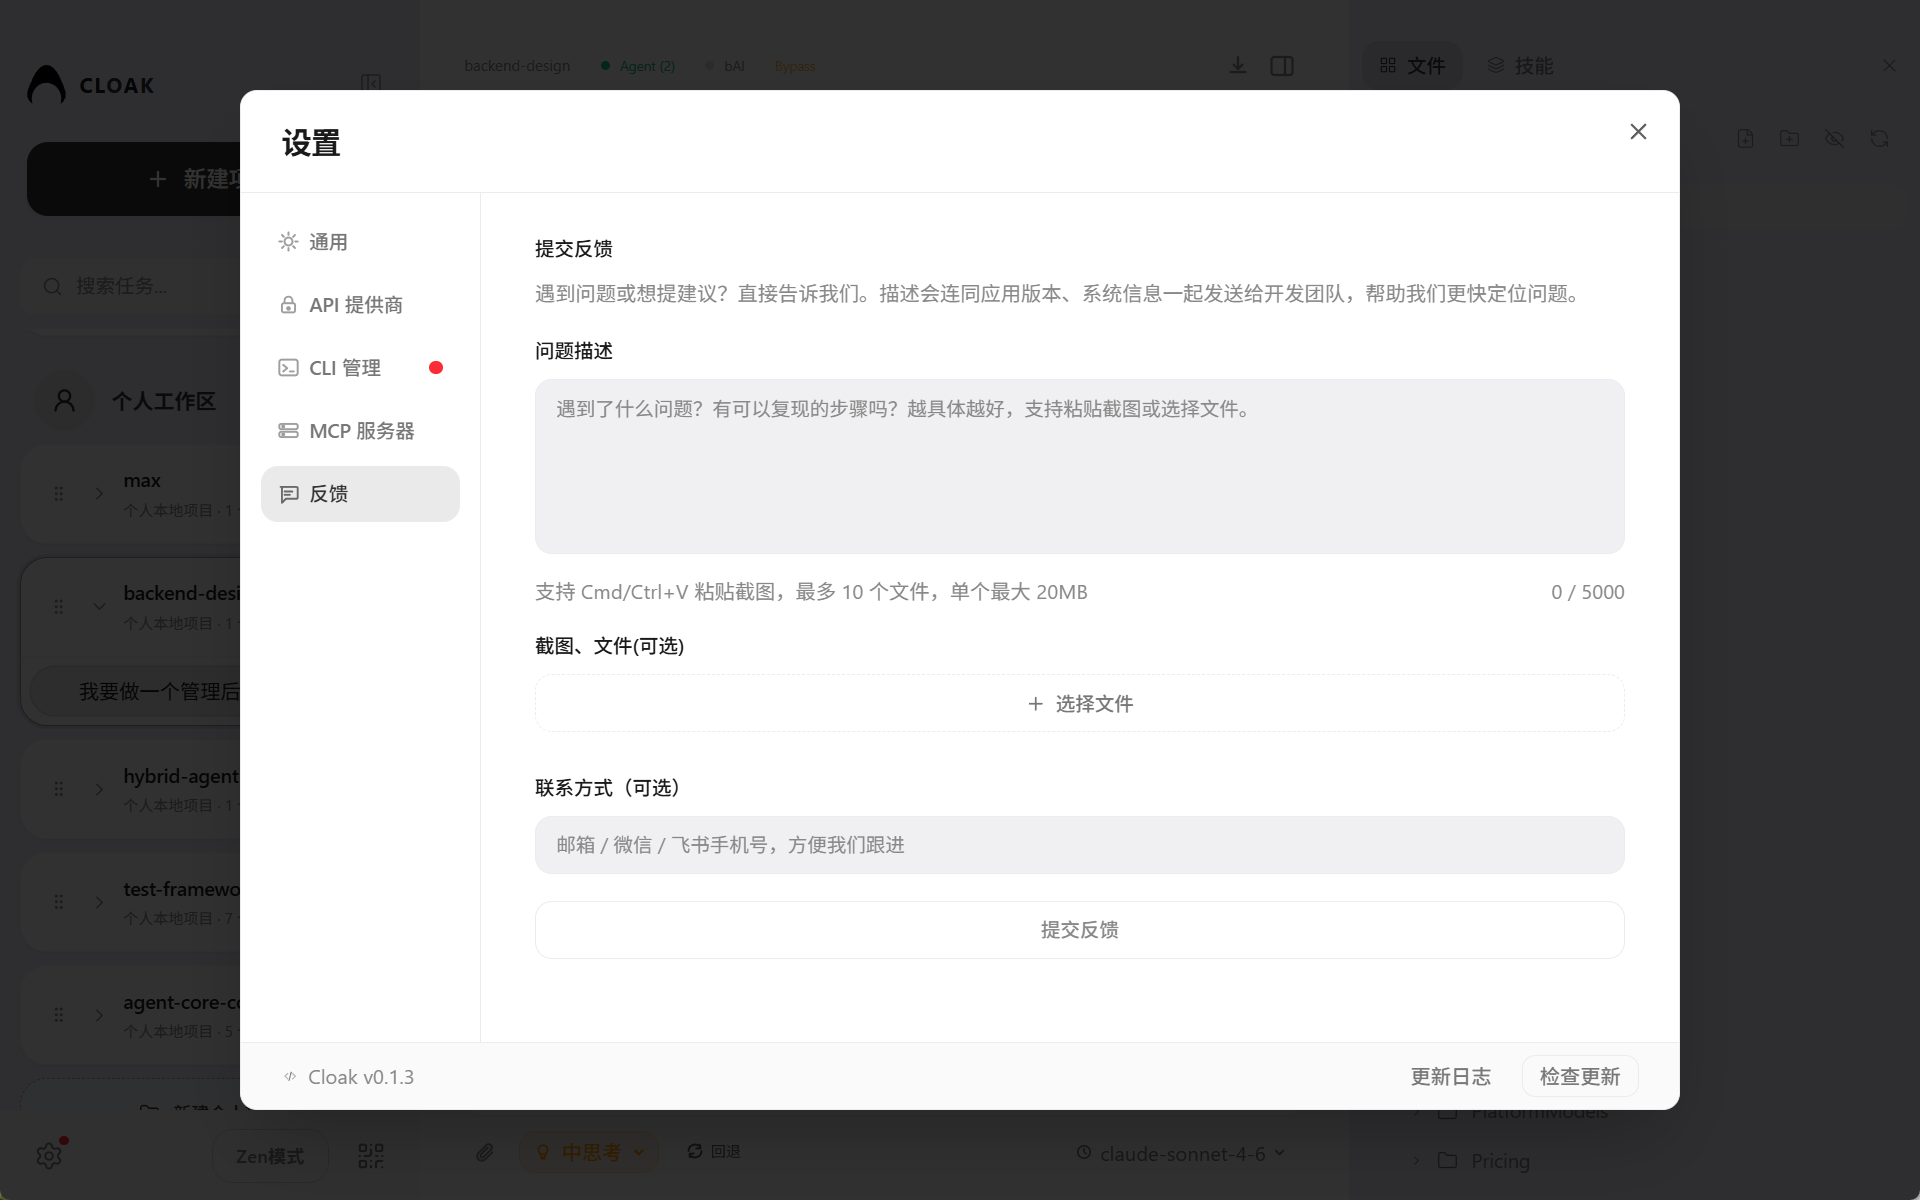
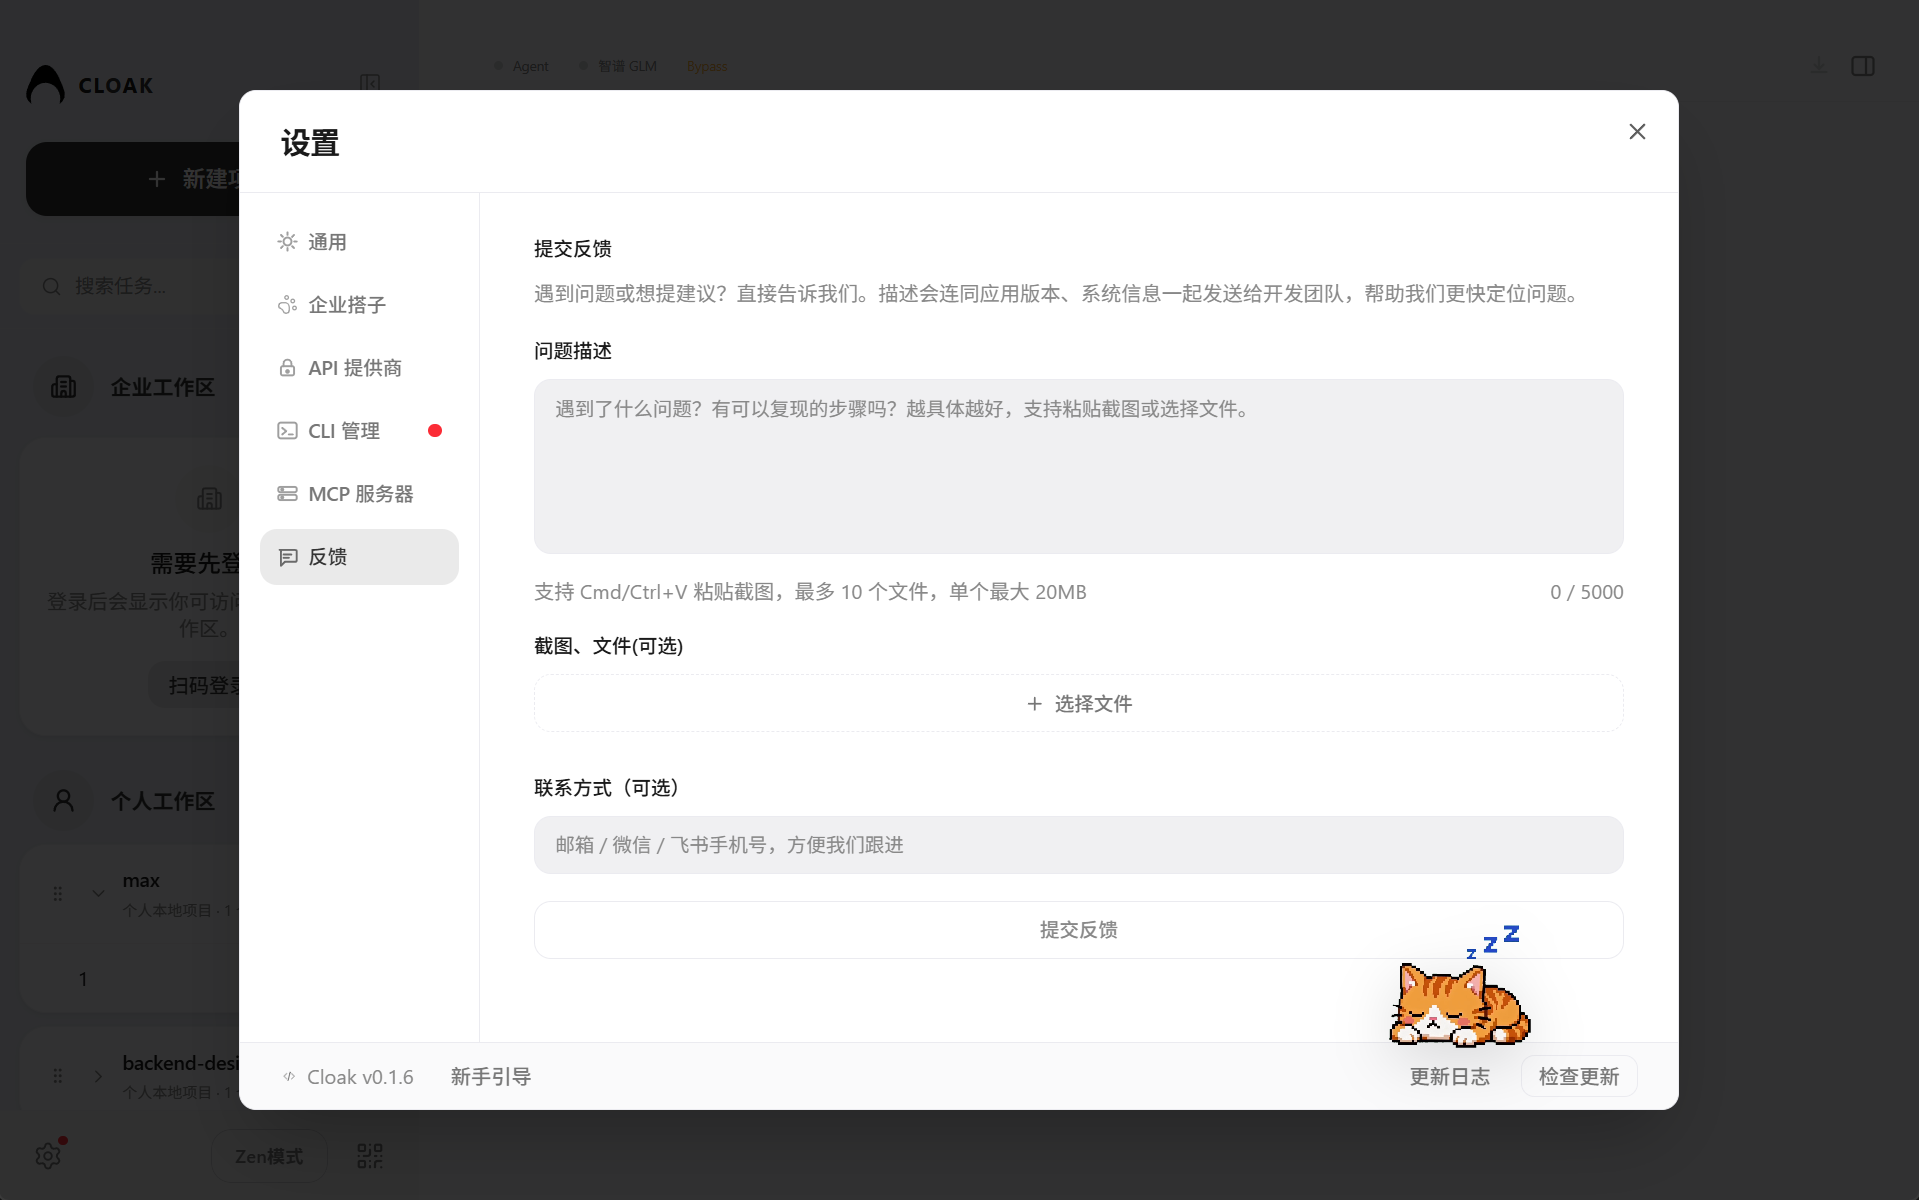
docs: expand readme faq and contact info

diff --git a/README.md b/README.md
@@ -23,6 +23,7 @@
 43 CLOAK 让企业的 AI 投入对管理者**管得住、用得对、留得下**，让 AI 对员工越用越懂业务、越懂岗位、越懂这家公司，适用于各行业、各规模企业的全员 AI 协作场景。
 
 > 当前发布的桌面客户端已支持个人空间与企业空间，既可以作为个人 AI 工作入口，也可以接入企业团队协作场景。
+> 企业版功能需要联系 CLOAK 团队配置并开通组织功能后才可使用；不开启企业功能，不影响个人版功能的正常使用。
 > 本项目早期工作参考借鉴了 [TOKENICODE](https://github.com/yiliqi78/TOKENICODE) 进行迭代开发，在此致谢原作者（@小七姐，@Tiny）。
 > Cloak 为闭源软件，仅提供安装包。
 
@@ -60,6 +61,10 @@
 ---
 
 ## 界面预览
+
+**欢迎界面**
+
+![欢迎界面](docs/screenshots/welcome.png)
 
 **主界面**
 
@@ -173,27 +178,213 @@ Cloak 内置了以下服务商，选好后点对应链接去注册获取 Key：
 
 ---
 
-## 遇到问题？
+## 常见问题 Q&A
 
-用着有什么不对劲，或者有想要的新功能，可以在应用内直接反馈：
+### 企业版与账号
 
-打开左下角的**设置**，进入**反馈**页面，填写问题描述。你可以粘贴截图或选择文件，也可以留下邮箱、微信或飞书手机号，方便我们后续跟进。
+**Q：我只想自己用，需要开通企业版吗？**
+
+A：不需要。个人版可以正常使用。企业工作区、组织成员、企业云端文件等功能，需要联系 CLOAK 团队配置开通后才会出现。
+
+**Q：企业版开通后，我需要自己配置很多东西吗？**
+
+A：通常不用。企业功能开通后，组织、成员、工作区和部分能力会由 CLOAK 团队或组织管理员配置。你只需要用对应账号登录。
+
+**Q：左侧看不到企业工作区，是不是坏了？**
+
+A：通常不是。请先确认你已经用飞书账号登录，并且你的组织已经开通企业功能、账号已被加入对应工作区。
+
+**Q：飞书二维码过期或扫不上怎么办？**
+
+A：关闭登录窗口重新打开，或点击刷新二维码；手机端确认使用的是飞书，并且网络正常。
+
+**Q：换电脑后还能继续用吗？**
+
+A：个人服务商 Key 需要在新电脑上重新配置；企业功能需要用同一个飞书账号登录，并且该账号仍在组织工作区内。
+
+### 下载、安装与设备
+
+**Q：我不知道该下载哪个安装包。**
+
+A：Windows 选 Windows；Mac 先点左上角苹果图标 → 关于本机，看「芯片」一栏，M1 / M2 / M3 / M4 选 M 系列，Intel 就选 Intel。
+
+**Q：Windows 打开后提示缺少 Git 或运行环境怎么办？**
+
+A：先安装 Git for Windows，安装时一路默认即可。如果应用里提示安装基础组件，点安装并等待完成；失败时可以重试，或用管理员身份打开应用。
+
+**Q：下载、安装或更新一直失败怎么办？**
+
+A：先确认网络正常、磁盘空间足够，并暂时关闭会拦截安装包的安全软件。Windows 可以尝试右键安装包，选择“以管理员身份运行”。
+
+**Q：电脑太旧会影响使用吗？**
+
+A：会。内存太小、磁盘空间不足、系统版本太旧，都可能导致安装慢、打开慢或更新失败。建议关闭不用的软件，并保留足够磁盘空间。
+
+**Q：macOS 提示没有权限访问文件怎么办？**
+
+A：到「系统设置 → 隐私与安全性 → 完全磁盘访问权限」里给 Cloak 授权，然后重启应用再试。
+
+### 对话与文件
+
+**Q：点“新建对话”后，我应该输入什么？**
+
+A：直接像和同事说话一样描述需求即可，比如“帮我总结这个文件”“把这段话改得正式一点”“帮我列一个执行计划”。
+
+**Q：同一个问题可以开多个对话吗？会不会互相影响？**
+
+A：可以。多个对话是分开的，适合把不同任务拆开处理。切换对话不会删除之前内容，但建议重要结果及时复制保存。
+
+**Q：为什么有时 AI 回复很慢？**
+
+A：可能是网络慢、模型服务忙、文件较大、问题较长，或当前模型本身响应较慢。可以先等一会儿，或换一个更快的模型再试。
+
+**Q：输入 `/` 后出现很多命令，我一定要会用吗？**
+
+A：不用。普通用户直接打字提问就可以。`/` 命令是给进阶用户快速操作用的，不会影响日常使用。
+
+**Q：为什么提示“权限请求”或让我确认操作？**
+
+A：这是为了避免 AI 自动改动文件或执行敏感操作。看清楚提示内容后再点允许；如果不确定，就点拒绝。
+
+**Q：回退功能是做什么的？**
+
+A：如果你发现对话走偏了，可以用回退回到前面的某一步。涉及文件改动时，请先确认自己是否真的要恢复旧状态。
+
+**Q：怎么把一段对话保存下来？**
+
+A：在对话界面里使用导出功能，可以把任务导出成 Markdown 或 JSON。普通用户一般选 Markdown 更方便查看。
+
+**Q：新建对话、个人工作区、企业工作区有什么区别？**
+
+A：新建对话只是开始一个新话题；个人工作区主要放你自己的本地项目和对话；企业工作区需要组织开通后使用，里面通常是团队共享资料和成员协作内容。
+
+**Q：我把文件拖进去了，AI 没有按文件内容回答怎么办？**
+
+A：先确认文件已经出现在输入框或对话里，再发送问题。文件太大、格式特殊、没有读取权限，或者文件还在下载中，都可能导致 AI 没有看到完整内容。
+
+**Q：能不能一次拖很多文件？**
+
+A：可以尝试，但不建议一开始就拖太多。文件越多，AI 需要处理的内容越多，速度会变慢，也更容易超出模型能处理的范围。
+
+**Q：文件面板里看不到我的文件怎么办？**
+
+A：检查你是不是选错了项目文件夹；如果文件夹被移动、改名或删除，需要重新选择。企业云端文件则需要先登录并进入对应企业工作区。
+
+### 企业工作区与云端文件
+
+**Q：企业文件能看到但打不开、不能上传，是为什么？**
+
+A：这通常和工作区权限有关。有些账号只能浏览目录，不能读取内容或写入文件。需要联系组织管理员或 CLOAK 团队调整权限。
+
+**Q：企业云端文件和我电脑里的文件有什么区别？**
+
+A：企业云端文件属于组织工作区，通常是团队共享资料；你电脑里的文件只在本机。云端文件的查看、下载、上传会受企业权限控制。
+
+**Q：云端文件显示“同步”“缓存”“冲突”是什么意思？**
+
+A：可以简单理解为文件正在和本地副本对齐。如果看到冲突，先不要反复上传或删除，建议刷新后再试，或联系管理员确认哪个版本是正确的。
+
+**Q：企业工作区里的成员头像有什么用？**
+
+A：它帮助你确认这个工作区有哪些成员参与。是否能看到文件、读取内容或写入，仍然取决于账号权限。
+
+### 模型、API Key 与网络
+
+**Q：我没有 API Key，能不能用？**
+
+A：企业用户通常由组织统一配置；个人用户需要在设置里填写自己的服务商 Key。如果不知道 Key 是什么，可以先联系服务商或你的组织管理员。
+
+**Q：填了 Key 还是不能对话怎么办？**
+
+A：检查三件事：Key 有没有复制完整；设置里是否选中了对应服务商；网络是否能访问该服务商。也可以换一个模型再试。
+
+**Q：我不小心切到别的模型或服务商了怎么办？**
+
+A：打开左下角设置，进入服务商或通用设置，重新选择你要使用的服务商和默认模型即可。
+
+**Q：API 提供商里的“测试连接”失败，就一定不能用吗？**
+
+A：不一定。有些服务商会限制测试请求来源。你可以确认 Key 和模型名没填错后，直接新建一个简单对话试试。
+
+**Q：API Key 明明没错，为什么还是失败？**
+
+A：除了 Key 本身，还可能是余额不足、套餐未开通、服务商限制地区、模型名称变化、请求太频繁，或服务商临时故障。可以去对应服务商后台检查状态。
+
+**Q：为什么提示额度不足、模型不可用或请求失败？**
+
+A：这通常来自模型服务商，不一定是 Cloak 的问题。请检查服务商账户余额、可用模型、账单状态和网络连接。
+
+**Q：“思考强度”是不是越高越好？**
+
+A：不一定。思考越深通常越慢、消耗也可能更高。普通总结、改写、问答用低或中就够；复杂分析再调高。
+
+**Q：公司网络、校园网或代理会影响使用吗？**
+
+A：会。部分网络会限制访问模型服务、GitHub、下载地址或二维码登录服务。可以换一个网络，或让网管放行相关访问。
+
+**Q：开了 VPN、代理或安全软件后不能用了怎么办？**
+
+A：先临时关闭代理或安全软件试一次，判断是不是它们拦截了连接或文件访问。公司电脑如果不能关闭，请联系 IT 管理员处理。
+
+### 设置、更新与个性化
+
+**Q：桌面宠物、主题、头像这些设置会影响 AI 能力吗？**
+
+A：不会。这些只是界面和使用体验设置，不会改变 AI 的回答能力。
+
+**Q：字体太小、界面太亮或太暗怎么办？**
+
+A：打开左下角设置，在通用里调整字体大小、外观模式和主题颜色。
+
+**Q：为什么设置在另一台电脑上没有同步？**
+
+A：个人本地配置通常需要在新电脑重新设置；企业账号相关配置是否同步，取决于组织是否开通和配置了对应能力。
+
+**Q：CLI 管理是什么？普通用户要管吗？**
+
+A：它是 Cloak 正常运行需要的基础组件管理入口。普通用户通常只需要在提示安装、更新或修复时按按钮操作。
+
+**Q：MCP 服务器是什么？需要配置吗？**
+
+A：这是给进阶用户连接外部工具用的。普通聊天、读文件、企业工作区使用都不要求你配置 MCP。
+
+**Q：更新后界面没变化怎么办？**
+
+A：先完全退出 Cloak，再重新打开。如果仍然没有变化，到设置页检查更新，或重新下载安装包覆盖安装。
+
+### 反馈与排查
+
+**Q：遇到问题时，我应该怎么反馈才有用？**
+
+A：尽量写清楚你点了哪里、想做什么、出现了什么提示，并附上截图。设置里的反馈页支持粘贴截图和选择文件。
+
+**Q：反馈里要不要留下联系方式？**
+
+A：建议留下邮箱、微信或飞书手机号。这样团队需要更多信息时可以联系你，不留也可以提交。
+
+**Q：我担心自己误操作，怎么办？**
+
+A：不确定的按钮先不要点，尤其是删除、覆盖、上传、允许权限这类操作。可以截图后咨询组织管理员或 CLOAK 团队。
+
+---
+
+## 反馈与建议
+
+使用中遇到问题，或者有想要的新功能、改进建议，都可以在应用内直接反馈：
+
+打开左下角的**设置**，进入**反馈**页面，填写你的问题或建议。你可以粘贴截图或选择文件，也可以留下邮箱、微信或飞书手机号，方便我们后续跟进。
 
 ![设置中的反馈页面](docs/screenshots/feedback.png)
 
-说清楚你在做什么、出现了什么情况、用的是哪个系统，我们会尽快处理。
+如果是使用问题，尽量说清楚你在做什么、出现了什么情况、用的是哪个系统；如果是功能建议，直接描述你希望 Cloak 帮你完成什么即可。
 
 ---
 
 ## 联系我们
 
-<!-- 以下链接待补充 -->
+如需开通企业版、咨询部署配置，或反馈使用建议，可以使用微信扫码联系 CLOAK 团队。
 
-| 渠道 | 链接 |
-|------|------|
-| 🌐 官网 | 即将上线 |
-| 💬 飞书群 | 即将开放 |
-| 💬 微信群 | 即将开放 |
+![微信扫码联系 CLOAK 团队](docs/contact-wecom.png)
 
 ---
 
